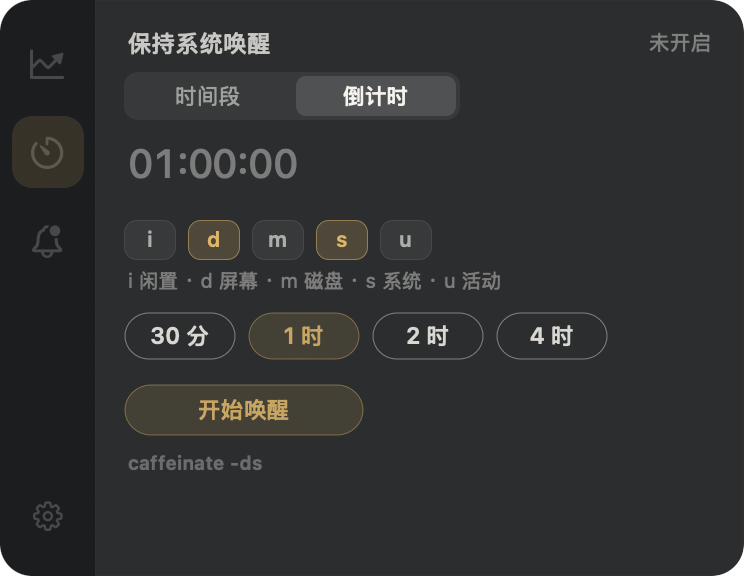
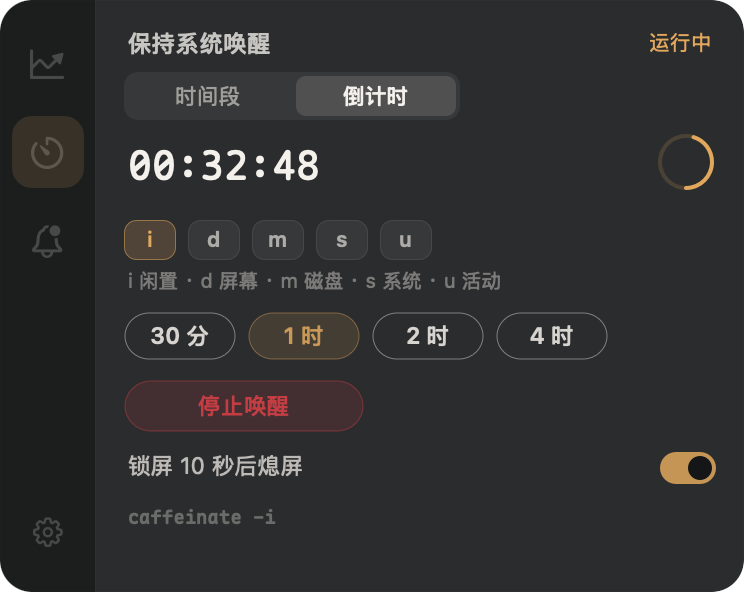
wake: 锁屏 10 秒后把内置屏亮度降到 0，解锁自动恢复
- 监听 com.apple.screenIsLocked / screenIsUnlocked，锁屏后延时 10 秒熄屏，
  期间解锁则取消
- 亮度走 DisplayServices 私有框架，仅内置屏有效（外接屏需 DDC，做不到）
- 安全网：退出应用、关闭开关、启动时发现上次遗留的熄屏状态，都会恢复亮度
- 5 秒轮询校正，防止通知丢失
- 唤醒页新增「锁屏 10 秒后熄屏」开关，默认开启

diff --git a/src/feature/ScreenLockWatcher.swift b/src/feature/ScreenLockWatcher.swift
@@ -1,0 +1,154 @@
+import AppKit
+import CoreGraphics
+
+/** 内置屏亮度读写：DisplayServices 私有框架，外接屏不支持（需 DDC）。 */
+enum BuiltinBrightness {
+    private typealias GetBrightness = @convention(c) (CGDirectDisplayID, UnsafeMutablePointer<Float>) -> Int32
+    private typealias SetBrightness = @convention(c) (CGDirectDisplayID, Float) -> Int32
+
+    private static let handle = dlopen("/System/Library/PrivateFrameworks/DisplayServices.framework/DisplayServices",
+                                       RTLD_NOW)
+    private static let getSymbol: GetBrightness? = handle.flatMap { dlsym($0, "DisplayServicesGetBrightness") }
+        .map { unsafeBitCast($0, to: GetBrightness.self) }
+    private static let setSymbol: SetBrightness? = handle.flatMap { dlsym($0, "DisplayServicesSetBrightness") }
+        .map { unsafeBitCast($0, to: SetBrightness.self) }
+
+    /// 内置屏的 displayID；没有内置屏（如纯外接）时返回 nil。
+    static var builtinDisplay: CGDirectDisplayID? {
+        var displays = [CGDirectDisplayID](repeating: 0, count: 8)
+        var count: UInt32 = 0
+        guard CGGetActiveDisplayList(8, &displays, &count) == .success else { return nil }
+        for index in 0..<Int(count) where CGDisplayIsBuiltin(displays[index]) != 0 {
+            return displays[index]
+        }
+        return nil
+    }
+
+    static func read() -> Float? {
+        guard let display = builtinDisplay, let getSymbol else { return nil }
+        var level: Float = -1
+        guard getSymbol(display, &level) == 0 else { return nil }
+        return level
+    }
+
+    @discardableResult
+    static func write(_ level: Float) -> Bool {
+        guard let display = builtinDisplay, let setSymbol else { return false }
+        return setSymbol(display, max(0, min(1, level))) == 0
+    }
+}
+
+/** 锁屏后延时熄屏：监听系统锁屏通知，10 秒后把内置屏亮度降到 0，解锁时恢复。 */
+final class ScreenLockWatcher: NSObject {
+    static let shared = ScreenLockWatcher()
+
+    /// 锁屏后等待多久再熄屏，留出解锁反悔的余地。
+    private let delay: TimeInterval = 10
+    /// 上次熄屏前记下的亮度，用于解锁恢复。
+    private var savedLevel: Float?
+    private var pendingDim: DispatchWorkItem?
+
+    private let store = SettingsStore.shared
+    private let savedKey = "GoldFloat.brightnessBeforeDim"
+
+    private override init() {
+        super.init()
+    }
+
+    /// 开始监听；启动时若发现上次异常退出遗留的「已熄屏」状态，先恢复亮度。
+    func start() {
+        restoreIfLeftDimmed()
+        let center = DistributedNotificationCenter.default
+        let pairs: [(String, Selector)] = [
+            ("com.apple.screenIsLocked", #selector(handleLocked)),
+            ("com.apple.screenIsUnlocked", #selector(handleUnlocked)),
+        ]
+        for (name, selector) in pairs {
+            center.addObserver(self, selector: selector, name: NSNotification.Name(name), object: nil)
+        }
+
+        // 兜底：锁屏通知偶发丢失时，用状态轮询校正。
+        let timer = Timer(timeInterval: 5, repeats: true) { [weak self] _ in self?.syncState() }
+        RunLoop.main.add(timer, forMode: .common)
+        clock = timer
+    }
+
+    private var clock: Timer?
+
+    /// 立即恢复亮度并停止监听（应用退出时调用）。
+    func stop() {
+        pendingDim?.cancel()
+        pendingDim = nil
+        restoreIfNeeded()
+        clock?.invalidate()
+        DistributedNotificationCenter.default.removeObserver(self)
+    }
+
+    /// 功能被关闭时也要把亮度还回去。
+    func applyEnabledState() {
+        if !store.value.dimOnLock {
+            pendingDim?.cancel()
+            pendingDim = nil
+            restoreIfNeeded()
+        }
+    }
+
+    @objc private func handleLocked() {
+        guard store.value.dimOnLock else { return }
+        scheduleDim()
+    }
+
+    @objc private func handleUnlocked() {
+        pendingDim?.cancel()
+        pendingDim = nil
+        restoreIfNeeded()
+    }
+
+    /// 锁屏 10 秒后再熄屏；期间解锁则取消。
+    private func scheduleDim() {
+        guard pendingDim == nil, savedLevel == nil else { return }
+        let work = DispatchWorkItem { [weak self] in
+            guard let self, self.store.value.dimOnLock, Self.isLocked else { return }
+            guard let current = BuiltinBrightness.read() else { return }
+            self.savedLevel = current
+            UserDefaults.standard.set(Double(current), forKey: self.savedKey)
+            BuiltinBrightness.write(0)
+            self.pendingDim = nil
+        }
+        pendingDim = work
+        DispatchQueue.main.asyncAfter(deadline: .now() + delay, execute: work)
+    }
+
+    /// 把亮度还原到熄屏前的值（内存或上次遗留的持久化值）。
+    private func restoreIfNeeded() {
+        let persisted = (UserDefaults.standard.object(forKey: savedKey) as? Double).map(Float.init)
+        guard let level = savedLevel ?? persisted else { return }
+        BuiltinBrightness.write(level)
+        savedLevel = nil
+        UserDefaults.standard.removeObject(forKey: savedKey)
+    }
+
+    /// 上次异常退出时亮度还压着，但当前并未锁屏，直接恢复。
+    private func restoreIfLeftDimmed() {
+        guard UserDefaults.standard.object(forKey: savedKey) != nil, !Self.isLocked else { return }
+        restoreIfNeeded()
+    }
+
+    /// 轮询校正：锁屏却没安排熄屏、或已解锁却还压着亮度。
+    private func syncState() {
+        guard store.value.dimOnLock else { return }
+        if Self.isLocked {
+            if savedLevel == nil && pendingDim == nil { scheduleDim() }
+        } else {
+            pendingDim?.cancel()
+            pendingDim = nil
+            restoreIfNeeded()
+        }
+    }
+
+    /// 当前会话是否处于锁屏。
+    static var isLocked: Bool {
+        guard let dict = CGSessionCopyCurrentDictionary() as? [String: Any] else { return false }
+        return (dict["CGSSessionScreenIsLocked"] as? Bool) ?? false
+    }
+}

diff --git a/src/ui/WakePage.swift b/src/ui/WakePage.swift
@@ -17,6 +17,8 @@ final class WakePage: NSView {
     private let arrow = NSTextField(labelWithString: "→")
     private let action = PillButton(title: "开始唤醒")
     private let command = NSTextField(labelWithString: "")
+    private let lockLabel = NSTextField(labelWithString: "锁屏 10 秒后熄屏")
+    private let lockToggle = Toggle(isOn: SettingsStore.shared.value.dimOnLock)
 
     private let durations: [(title: String, seconds: Double)] = [
         ("30 分", 1800), ("1 时", 3600), ("2 时", 7200), ("4 时", 14400),
@@ -79,7 +81,15 @@ final class WakePage: NSView {
 
         action.onClick = { [weak self] in self?.toggle() }
 
-        [title, state, segmented, remaining, ring, hint, durationRow, rangeRow, action, command].forEach(addSubview)
+        lockLabel.font = Tokens.text(11.5)
+        lockLabel.textColor = Tokens.muted(0.72)
+        lockToggle.onChange = { value in
+            SettingsStore.shared.update { $0.dimOnLock = value }
+            ScreenLockWatcher.shared.applyEnabledState()
+        }
+
+        [title, state, segmented, remaining, ring, hint, durationRow, rangeRow, action,
+         lockLabel, lockToggle, command].forEach(addSubview)
         chips.forEach(addSubview)
 
         refresh()
@@ -111,8 +121,10 @@ final class WakePage: NSView {
         arrow.frame = NSRect(x: 98, y: 2, width: 16, height: 18)
         endPopup.frame = NSRect(x: 118, y: 0, width: 92, height: 22)
 
-        action.frame = NSRect(x: 0, y: 178, width: 120, height: 26)
-        command.frame = NSRect(x: 0, y: 212, width: bounds.width, height: 14)
+        action.frame = NSRect(x: 0, y: 176, width: 120, height: 26)
+        lockLabel.frame = NSRect(x: 0, y: 212, width: 130, height: 16)
+        lockToggle.frame = NSRect(x: bounds.width - 28, y: 212, width: 28, height: 16)
+        command.frame = NSRect(x: 0, y: 238, width: bounds.width, height: 14)
     }
 
     // MARK: - 状态
@@ -166,6 +178,7 @@ final class WakePage: NSView {
             ring.isHidden = true
         }
 
+        lockToggle.isOn = settings.dimOnLock
         command.stringValue = "caffeinate -" + settings.wakeFlags.joined()
         if let error = wake.lastError {
             command.stringValue = error

diff --git a/src/main.swift b/src/main.swift
@@ -118,6 +118,7 @@ final class AppDelegate: NSObject, NSApplicationDelegate {
         capsule.capsule.button.onClick = { [weak self] in self?.toggleWake() }
         capsule.capsule.button.onRightClick = { [weak self] in self?.showFlagMenu() }
 
+        ScreenLockWatcher.shared.start()
         Notifier.shared.prepare()
         applySettings()
         feed.start()
@@ -133,6 +134,8 @@ final class AppDelegate: NSObject, NSApplicationDelegate {
     func applicationWillTerminate(_ note: Notification) {
         clock?.invalidate()
         feed.stop()
+        // 退出前把锁屏期间压低的亮度还回去，避免下次开机是黑屏。
+        ScreenLockWatcher.shared.stop()
     }
 
     // MARK: - 装配
@@ -170,6 +173,7 @@ final class AppDelegate: NSObject, NSApplicationDelegate {
         let settings = store.value
         capsule.capsule.apply(settings: settings, running: wake.isRunning)
         card.applySettings()
+        ScreenLockWatcher.shared.applyEnabledState()
         refreshPrice()
     }
 

diff --git a/src/support/Settings.swift b/src/support/Settings.swift
@@ -45,6 +45,9 @@ struct AppSettings: Codable {
     var wakeStartMinute: Int = 0
     var wakeEndMinute: Int = 120
 
+    /// 锁屏 10 秒后把内置屏亮度降到 0，解锁恢复。
+    var dimOnLock: Bool = true
+
     /// 触控板震动总开关。
     var hapticEnabled: Bool = true
     /// 系统通知总开关。
